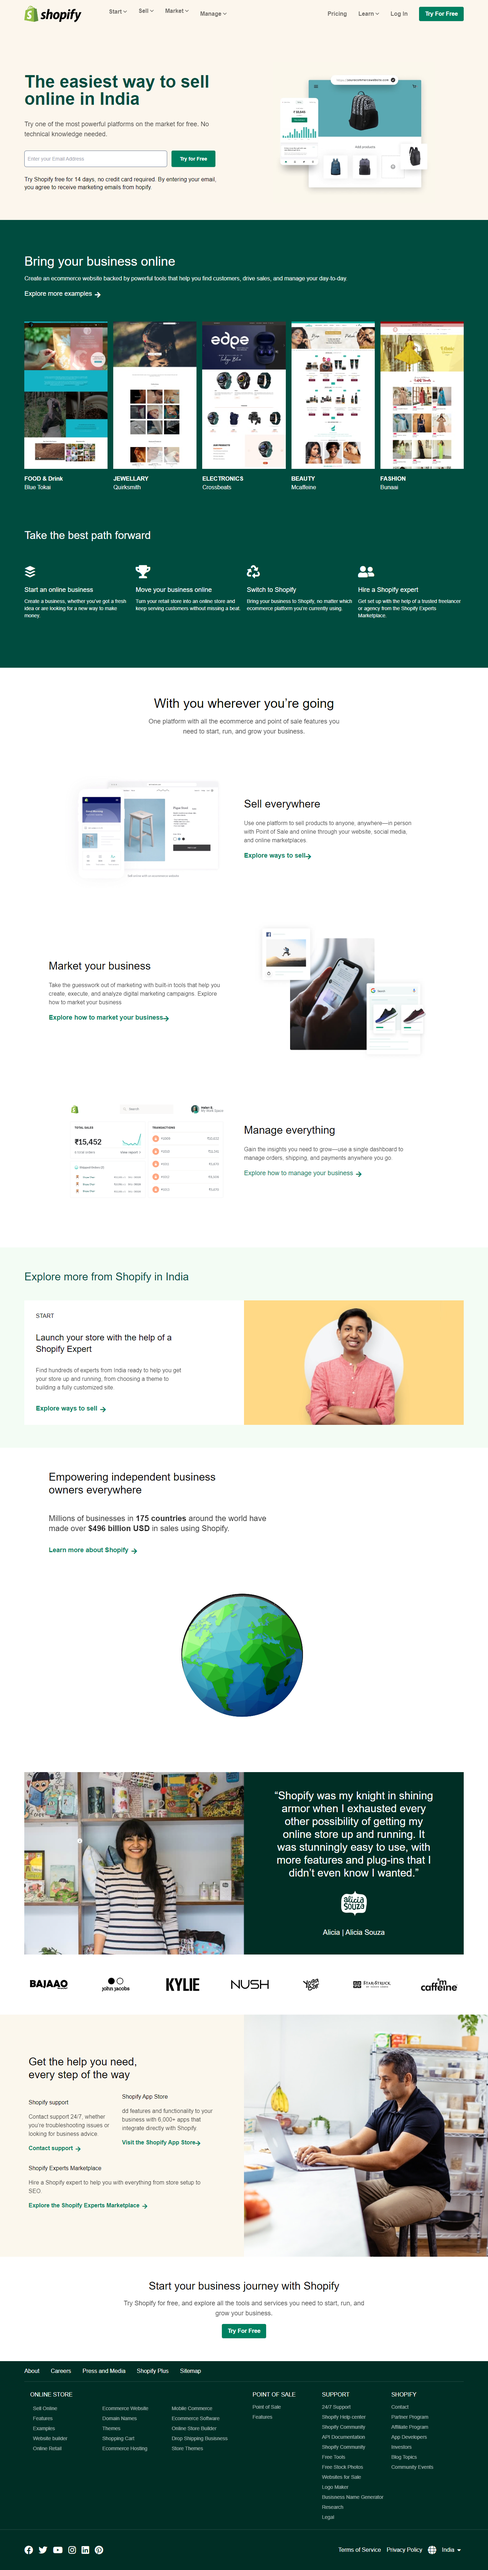
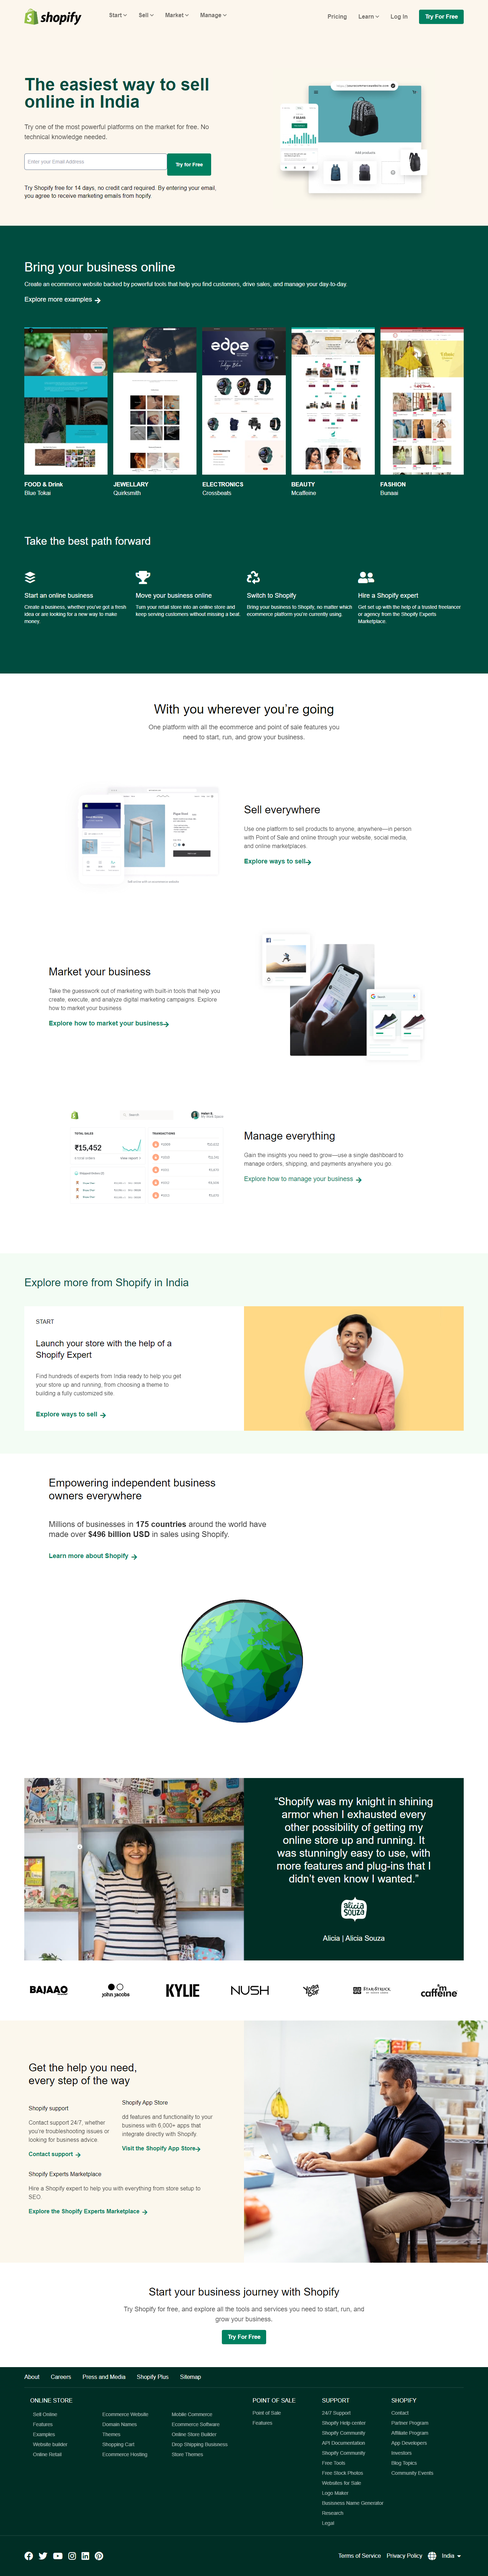
Second commit

diff --git a/index.html b/index.html
@@ -101,23 +101,23 @@
 <body>
   <div>
     <header class="bg-[#fcf6ed] `">
-      <nav class="w-[90%] mx-auto flex items-center justify-between py-4">
+      <nav class="w-[90%] mx-auto flex items-center justify-between py-6">
         <div class="flex item-center">
           <img src="./Assets/svgexport-20.png" alt="logo" class="w-40" />
           <ul class="lg:flex items-center space-x-8 ml-10 hidden nav-items">
-            <li class="flex items-center opacity-60 hover:opacity-100 cursor-pointer duration-50 sm: ml-9 mb-3">
+            <li class="flex items-center opacity-60 hover:opacity-100 cursor-pointer duration-50 sm: ml-9 mb-2">
               <a href="#" class="font-bold">Start</a>
               <i class="fas fa-chevron-down text-xs ml-1" aria-hidden="true"></i>
             </li>
-            <li class="flex items-center opacity-60 hover:opacity-100 cursor-pointer sm: mb-4">
+            <li class="flex items-center opacity-60 hover:opacity-100 cursor-pointer sm: mb-2">
               <a href="#" class="font-bold">Sell</a>
               <i class="fas fa-chevron-down text-xs ml-1" aria-hidden="true"></i>
             </li>
-            <li class="flex items-center opacity-60 hover:opacity-100 cursor-pointer sm: mb-4">
+            <li class="flex items-center opacity-60 hover:opacity-100 cursor-pointer sm: mb-2">
               <a href="#" class="font-bold">Market</a>
               <i class="fas fa-chevron-down text-xs ml-1" aria-hidden="true"></i>
             </li>
-            <li class="flex items-center opacity-60 hover:opacity-100 cursor-pointer">
+            <li class="flex items-center opacity-60 hover:opacity-100 cursor-pointer sm: mb-2">
               <a href="#" class="font-bold">Manage</a>
               <i class="fas fa-chevron-down text-xs ml-1" aria-hidden="true"></i>
             </li>

diff --git a/README.md b/README.md
@@ -2,7 +2,7 @@
 ## Project Name : **Shopify Tailwind Clone !**
 ![badge](https://img.shields.io/badge/iNeuron-LCO-green) ![badge](https://img.shields.io/badge/Hitesh--Choudhary-Full%20Stack%20Javascript%20Course-orange)
 
-This project is Homepage of Paytm. Taken reference from [Rode.com](https://rode.com/en) production website.  Developed with pure HTML,Tailwind CSS, minimal CSS and Javascri.
+This project is Homepage of Shopify India. Taken reference from [Shopify.in](https://www.shopify.in/) production website.  Developed with pure HTML,Tailwind CSS, minimal CSS and Javascri.
 Works fine across devices desktop design starts from 1920px and mobile starts from 767px resolutions.
 
 </br>
@@ -17,9 +17,9 @@ Works fine across devices desktop design starts from 1920px and mobile starts fr
 
 ### Demo :
 
-![Web Site Image](https://github.com/anitha-nagadasarink/rode-tailwind-clone-new/blob/HTML-CSS-Projects/Assets/desktop-demo.png)
-![Mobile Site Image](https://github.com/anitha-nagadasarink/rode-tailwind-clone-new/blob/HTML-CSS-Projects/Assets/mobile-demo.png)
+![Web Site Image](https://github.com/anitha-nagadasarink/shopify-tailwind-clone/blob/HTML-CSS-Projects/Assets/desktop.png)
+![Mobile Site Image](https://github.com/anitha-nagadasarink/shopify-tailwind-clone/blob/HTML-CSS-Projects/Assets/mobile.png)
 
 ### You can Check it Live on Below Link :
 
-[Live Link !](https://rode-tailwind-clone-new.netlify.app/)
+[Live Link !](https://new-shopify-tailwind-clone.netlify.app/)
